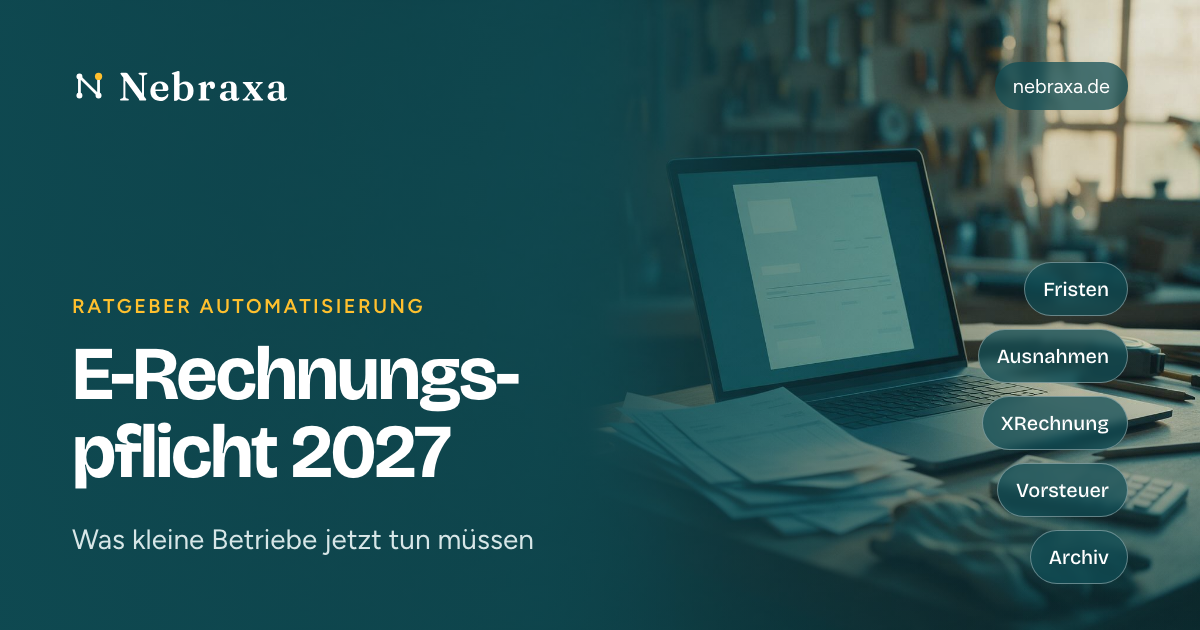
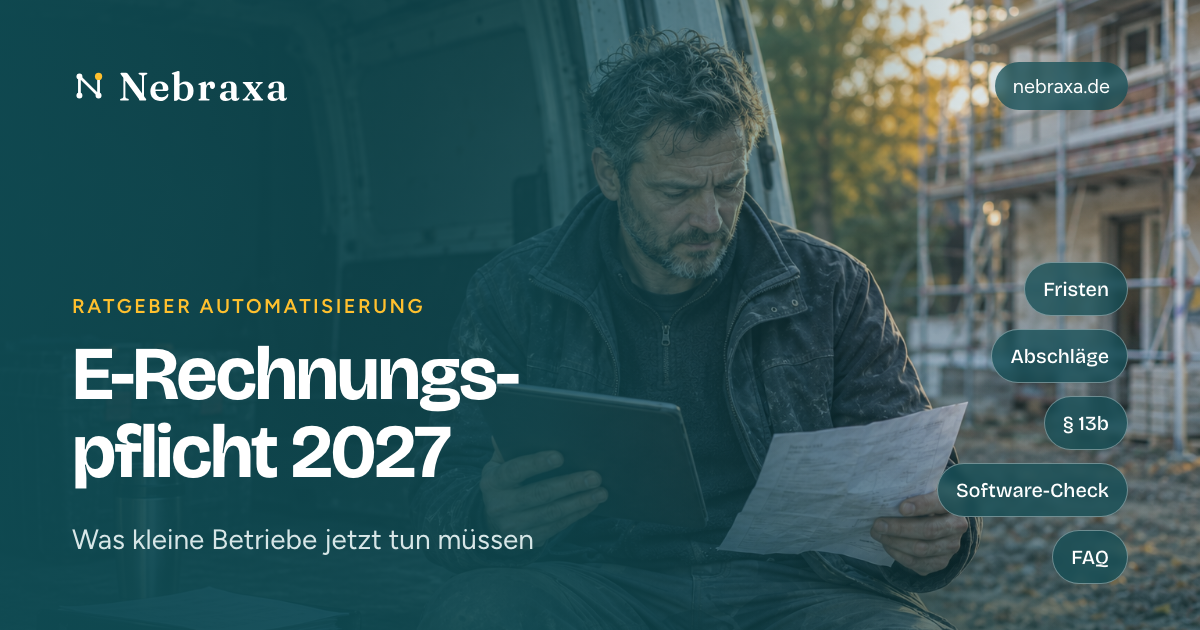
UPDATE social preview image for e-invoice article with real-life photo

diff --git a/e-rechnung-pflicht-2027.html b/e-rechnung-pflicht-2027.html
@@ -14,7 +14,7 @@
 <meta property="og:url" content="https://nebraxa.de/e-rechnung-pflicht-2027.html">
 <meta property="og:title" content="E-Rechnungspflicht 2027: Was kleine Betriebe jetzt tun müssen">
 <meta property="og:description" content="Ab 2027 müssen Betriebe über 800.000 Euro Umsatz E-Rechnungen ausstellen, ab 2028 alle. Was gilt, wo es laut ZDH-Umfrage hakt und was Sie jetzt vorbereiten sollten.">
-<meta property="og:image" content="https://nebraxa.de/og-e-rechnung-pflicht-2027.png">
+<meta property="og:image" content="https://nebraxa.de/og-e-rechnung-pflicht-2027.png?v=2">
 <meta property="og:image:width" content="1200">
 <meta property="og:image:height" content="630">
 <meta property="og:image:alt" content="E-Rechnungspflicht 2027 – Ratgeber von Nebraxa">
